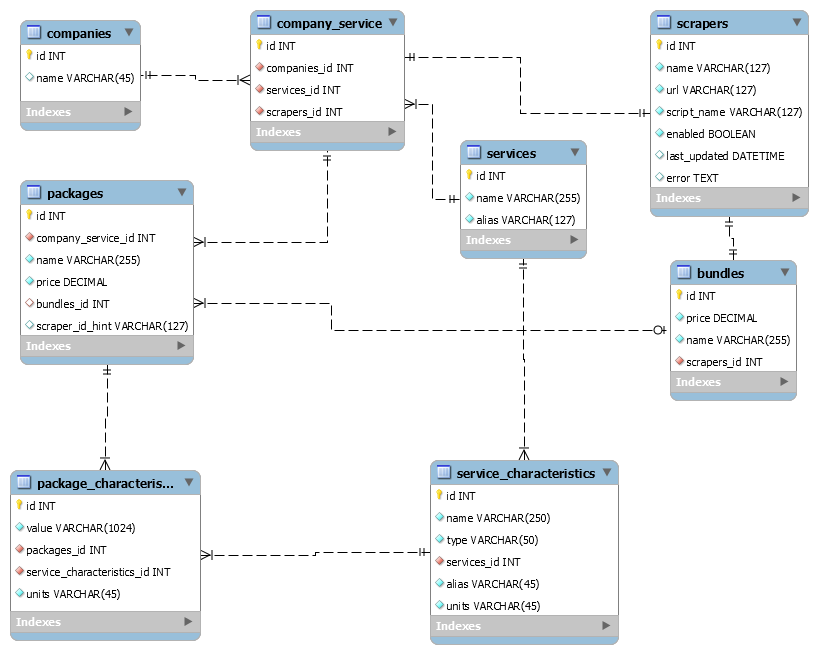
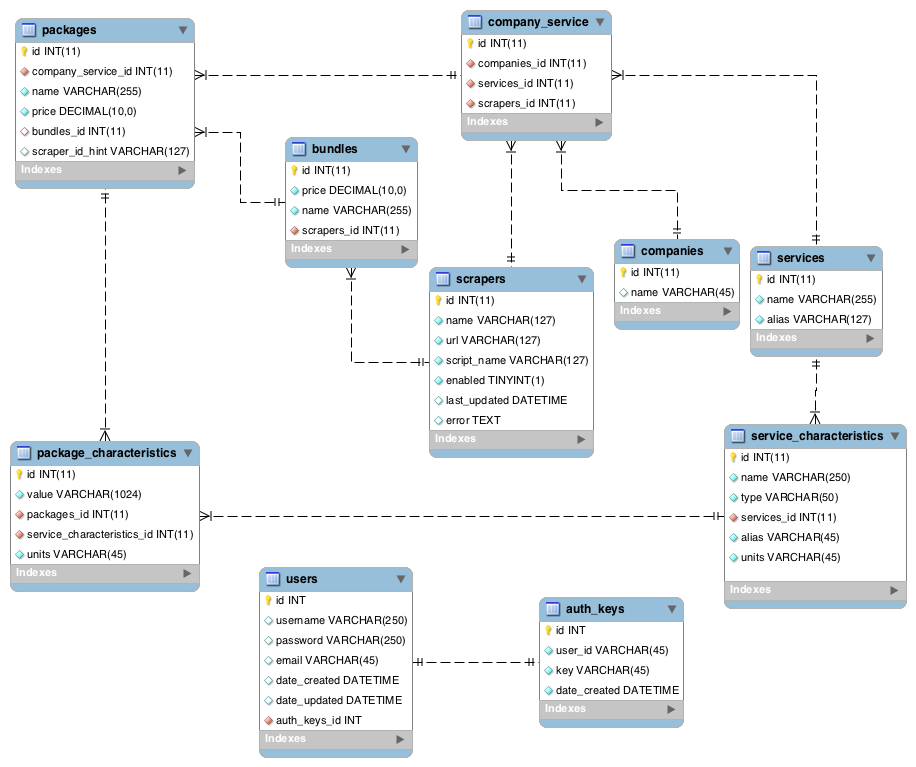
Updated db structure schema

diff --git a/api/src/controllers.php b/api/src/controllers.php
@@ -131,6 +131,46 @@ $app->get('/get/min-max', function (Request $request) use ($app) {
     return $app->json($data);
 })->bind('getMinMax');
 
+$app->get('/user/auth', function (Request $request) use ($app) {
+    $username = $request->query->get('username');
+    $password = $request->query->get('password');
+    $secretKey = $request->query->get('secretKey');
+
+    // if user and password given -> secret key
+    if (!empty($username) && !empty($password)) {
+        $sql = "
+            SELECT COUNT(*) AS `result_nr`
+            FROM `users`
+            WHERE `username` = ?
+              AND `password` = PASSWORD(?)
+        ";
+
+        $data = $app['db']->fetchAssoc($sql, $username, $password);
+
+        if ($data['result_nr'] == 1) {
+            $data = [
+                        'status' => '200',
+                        'message' => '',
+                    ];
+
+        } else {
+            $data = [
+                        'status' => '400',
+                        'message' => 'Wrong credentials',
+                    ];
+        }
+    } else if (!empty($secretKey)) {
+
+    } else {
+        $data = [
+                    'status' => '400',
+                    'message' => 'Wrong parameters',
+                ];
+    }
+
+    return $app->json($data);
+})->bind('doLogin');
+
 $app->after(function (Request $request, Response $response) {
     $response->headers->set('Access-Control-Allow-Origin', '*');
 });
